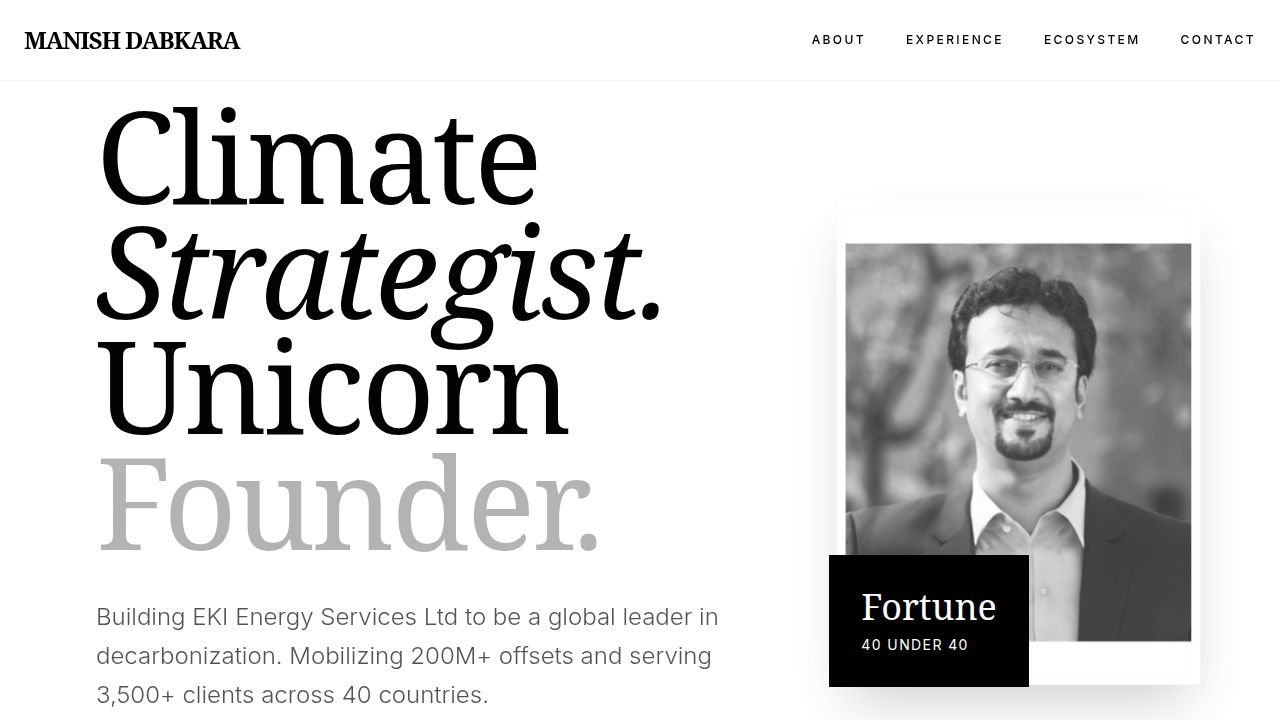
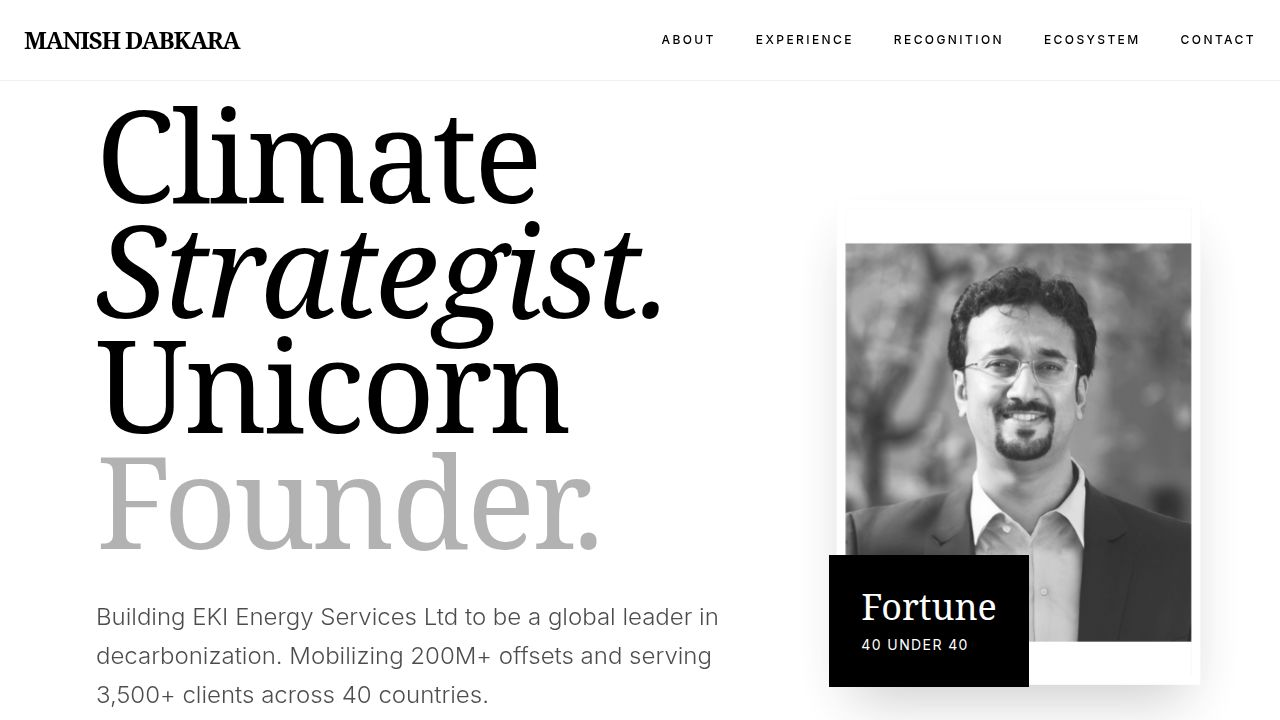
Add a dedicated section for awards and speaking engagements
Add a 'Recognition' link to the header and include external links for awards and speaking engagements within the 'Awards' tab of the 'Recognition' section.

Replit-Commit-Author: Agent
Replit-Commit-Session-Id: 7079eb56-b492-4c41-9ff2-b3305eb65a7d
Replit-Commit-Checkpoint-Type: full_checkpoint
Replit-Commit-Event-Id: b84601fd-12e4-42af-a5d4-53085754edbd
Replit-Commit-Screenshot-Url: https://storage.googleapis.com/screenshot-production-us-central1/64c8ebba-a254-495e-8eb7-9d763e5eff86/7079eb56-b492-4c41-9ff2-b3305eb65a7d/HWM6wbl
Replit-Helium-Checkpoint-Created: true

diff --git a/client/src/pages/Home.tsx b/client/src/pages/Home.tsx
@@ -103,6 +103,9 @@ export default function Home() {
           <a href="#experience" className="hover:opacity-50 transition-opacity">
             Experience
           </a>
+          <a href="#recognition" className="hover:opacity-50 transition-opacity">
+            Recognition
+          </a>
           <a href="#leadership" className="hover:opacity-50 transition-opacity">
             Ecosystem
           </a>
@@ -286,39 +289,101 @@ export default function Home() {
             
             <TabsContent value="awards" className="grid grid-cols-1 md:grid-cols-2 gap-8 outline-none">
               {[
-                { title: "Best CSR Project (Women Empowerment)", org: "Indian Social Impact Awards", date: "Jan 2026", desc: "Recognized for EKI's commitment to social equity and clean energy access." },
-                { title: "Environment Protection Appreciation", org: "Rotary India National CSR Awards", date: "Dec 2025", desc: "Awarded for excellence in environmental stewardship and carbon project integrity." },
-                { title: "Excellence in Clean Energy Initiative", org: "16th India CSR Awards", date: "Nov 2025", desc: "For the 'Clean Cooking Project' impacting rural communities globally." },
-                { title: "Carbon Stewardship Award", org: "Green Climate Conclave", date: "June 2025", desc: "Recognized for driving climate action and nature-based solutions." }
+                { 
+                  title: "Best CSR Project (Women Empowerment)", 
+                  org: "Indian Social Impact Awards", 
+                  date: "Jan 2026", 
+                  desc: "Recognized for EKI's commitment to social equity and clean energy access.",
+                  link: "https://enkingint.org/news-and-updates/" 
+                },
+                { 
+                  title: "Environment Protection Appreciation", 
+                  org: "Rotary India National CSR Awards", 
+                  date: "Dec 2025", 
+                  desc: "Awarded for excellence in environmental stewardship and carbon project integrity.",
+                  link: "https://www.business-standard.com/topic/eki-energy-services" 
+                },
+                { 
+                  title: "Excellence in Clean Energy Initiative", 
+                  org: "16th India CSR Awards", 
+                  date: "Nov 2025", 
+                  desc: "For the 'Clean Cooking Project' impacting rural communities globally.",
+                  link: "https://indiacsr.in/" 
+                },
+                { 
+                  title: "Carbon Stewardship Award", 
+                  org: "Green Climate Conclave", 
+                  date: "June 2025", 
+                  desc: "Recognized for driving climate action and nature-based solutions.",
+                  link: "https://enkingint.org/investor-relations/" 
+                }
               ].map((award, i) => (
-                <div key={i} className="bg-white p-10 border border-black/5 hover:border-black/20 transition-all">
-                  <div className="flex justify-between items-start mb-6">
-                    <Award className="w-8 h-8 opacity-20" />
-                    <span className="text-[10px] font-bold uppercase tracking-widest bg-black text-white px-2 py-1">{award.date}</span>
+                <div key={i} className="bg-white p-10 border border-black/5 hover:border-black/20 transition-all flex flex-col justify-between">
+                  <div>
+                    <div className="flex justify-between items-start mb-6">
+                      <Award className="w-8 h-8 opacity-20" />
+                      <span className="text-[10px] font-bold uppercase tracking-widest bg-black text-white px-2 py-1">{award.date}</span>
+                    </div>
+                    <h4 className="text-xl font-serif font-bold mb-2">{award.title}</h4>
+                    <p className="text-xs uppercase tracking-widest opacity-40 mb-4">{award.org}</p>
+                    <p className="text-sm text-black/60 leading-relaxed mb-6">{award.desc}</p>
                   </div>
-                  <h4 className="text-xl font-serif font-bold mb-2">{award.title}</h4>
-                  <p className="text-xs uppercase tracking-widest opacity-40 mb-4">{award.org}</p>
-                  <p className="text-sm text-black/60 leading-relaxed">{award.desc}</p>
+                  <a href={award.link} target="_blank" rel="noreferrer" className="text-[10px] uppercase tracking-widest font-bold flex items-center gap-2 hover:opacity-50 transition-opacity">
+                    Read Announcement <ExternalLink className="w-3 h-3" />
+                  </a>
                 </div>
               ))}
             </TabsContent>
 
             <TabsContent value="events" className="grid grid-cols-1 md:grid-cols-2 gap-8 outline-none">
               {[
-                { title: "India Energy Week 2026", role: "Technical Committee Member", location: "New Delhi", date: "Feb 2026", desc: "Shaping the technical discourse for India's premier energy transition forum." },
-                { title: "World Utilities Congress", role: "Executive Committee Member", location: "Abu Dhabi", date: "Jan 2026", desc: "Strategic advisor for global utility decarbonization pathways." },
-                { title: "RMM 2025 Amsterdam", role: "Featured Panelist", location: "Amsterdam", date: "April 2025", desc: "Discussing India's Renewable Energy Market prospects with global leaders." },
-                { title: "TEDx: Path to a Greener Future", role: "Featured Speaker", location: "Indore", date: "Oct 2025", desc: "Spreading the vision of carbon-negative lifestyles to the next generation." }
+                { 
+                  title: "India Energy Week 2026", 
+                  role: "Technical Committee Member", 
+                  location: "New Delhi", 
+                  date: "Feb 2026", 
+                  desc: "Shaping the technical discourse for India's premier energy transition forum.",
+                  link: "https://www.indiaenergyweek.com/speakers/2026-technical-committee/manish-dabkara/"
+                },
+                { 
+                  title: "World Utilities Congress", 
+                  role: "Executive Committee Member", 
+                  location: "Abu Dhabi", 
+                  date: "Jan 2026", 
+                  desc: "Strategic advisor for global utility decarbonization pathways.",
+                  link: "https://www.worldutilitiescongress.com/speaker-collection/2025-executive-committee/manish-dabkara/"
+                },
+                { 
+                  title: "RMM 2025 Amsterdam", 
+                  role: "Featured Panelist", 
+                  location: "Amsterdam", 
+                  date: "April 2025", 
+                  desc: "Discussing India's Renewable Energy Market prospects with global leaders.",
+                  link: "https://www.linkedin.com/posts/manishdabkara_renewableenergy-carbonmarkets-activity-7241306633094545408-PpM7"
+                },
+                { 
+                  title: "COP29 Azerbaijan", 
+                  role: "Keynote Speaker", 
+                  location: "Baku", 
+                  date: "Nov 2025", 
+                  desc: "Addressed Article 6 implementation and private sector roles in climate finance.",
+                  link: "https://enkingint.org/news-and-updates/"
+                }
               ].map((event, i) => (
-                <div key={i} className="bg-white p-10 border border-black/5 hover:border-black/20 transition-all">
-                  <div className="flex justify-between items-start mb-6">
-                    <Globe className="w-8 h-8 opacity-20" />
-                    <span className="text-[10px] font-bold uppercase tracking-widest border border-black px-2 py-1">{event.date}</span>
+                <div key={i} className="bg-white p-10 border border-black/5 hover:border-black/20 transition-all flex flex-col justify-between">
+                  <div>
+                    <div className="flex justify-between items-start mb-6">
+                      <Globe className="w-8 h-8 opacity-20" />
+                      <span className="text-[10px] font-bold uppercase tracking-widest border border-black px-2 py-1">{event.date}</span>
+                    </div>
+                    <h4 className="text-xl font-serif font-bold mb-2">{event.title}</h4>
+                    <p className="text-xs uppercase tracking-widest opacity-40 mb-1">{event.role}</p>
+                    <p className="text-[10px] font-bold mb-4 flex items-center gap-1">📍 {event.location}</p>
+                    <p className="text-sm text-black/60 leading-relaxed mb-6">{event.desc}</p>
                   </div>
-                  <h4 className="text-xl font-serif font-bold mb-2">{event.title}</h4>
-                  <p className="text-xs uppercase tracking-widest opacity-40 mb-1">{event.role}</p>
-                  <p className="text-[10px] font-bold mb-4 flex items-center gap-1">📍 {event.location}</p>
-                  <p className="text-sm text-black/60 leading-relaxed">{event.desc}</p>
+                  <a href={event.link} target="_blank" rel="noreferrer" className="text-[10px] uppercase tracking-widest font-bold flex items-center gap-2 hover:opacity-50 transition-opacity">
+                    View Event Details <ExternalLink className="w-3 h-3" />
+                  </a>
                 </div>
               ))}
             </TabsContent>
@@ -337,17 +402,26 @@ export default function Home() {
             <div className="space-y-4">
               <Badge variant="outline" className="text-white border-white/20">Press Release</Badge>
               <h4 className="text-xl font-serif font-bold">Subsidiary Acquisition</h4>
-              <p className="text-sm text-white/60 leading-relaxed">EKI successfully acquired an additional 14.11% stake in GHG, making it a wholly-owned subsidiary to strengthen its environmental services portfolio.</p>
+              <p className="text-sm text-white/60 leading-relaxed mb-4">EKI successfully acquired an additional 14.11% stake in GHG, making it a wholly-owned subsidiary to strengthen its environmental services portfolio.</p>
+              <a href="https://www.devdiscourse.com/article/headlines/3779105-eki-energy-services-faces-financial-setback-amid-strategic-acquisition" target="_blank" rel="noreferrer" className="text-[10px] uppercase tracking-widest font-bold flex items-center gap-2 text-white/40 hover:text-white transition-colors">
+                View Full PR <ExternalLink className="w-3 h-3" />
+              </a>
             </div>
             <div className="space-y-4">
               <Badge variant="outline" className="text-white border-white/20">Market Outlook</Badge>
               <h4 className="text-xl font-serif font-bold">2026 Carbon Reset</h4>
-              <p className="text-sm text-white/60 leading-relaxed">Manish Dabkara highlights that Asia's nature-based carbon markets are resetting, with a shift toward high-quality ARR and blue carbon assets.</p>
+              <p className="text-sm text-white/60 leading-relaxed mb-4">Manish Dabkara highlights that Asia's nature-based carbon markets are resetting, with a shift toward high-quality ARR and blue carbon assets.</p>
+              <a href="https://x.com/manishdabkara1/status/2006252988860600524" target="_blank" rel="noreferrer" className="text-[10px] uppercase tracking-widest font-bold flex items-center gap-2 text-white/40 hover:text-white transition-colors">
+                Read on X <ExternalLink className="w-3 h-3" />
+              </a>
             </div>
             <div className="space-y-4">
               <Badge variant="outline" className="text-white border-white/20">Budget 2026</Badge>
               <h4 className="text-xl font-serif font-bold">Policy Continuity</h4>
-              <p className="text-sm text-white/60 leading-relaxed">Commented on expectations for the FY27 Budget, focusing on policy stability for renewable energy deployment and corporate decarbonization.</p>
+              <p className="text-sm text-white/60 leading-relaxed mb-4">Commented on expectations for the FY27 Budget, focusing on policy stability for renewable energy deployment and corporate decarbonization.</p>
+              <a href="https://www.business-standard.com/budget/news/renewable-energy-industry-seeks-sops-for-r-d-affordable-green-finance-in-fy27-budget-126011300244.html" target="_blank" rel="noreferrer" className="text-[10px] uppercase tracking-widest font-bold flex items-center gap-2 text-white/40 hover:text-white transition-colors">
+                Read Article <ExternalLink className="w-3 h-3" />
+              </a>
             </div>
           </div>
         </div>
